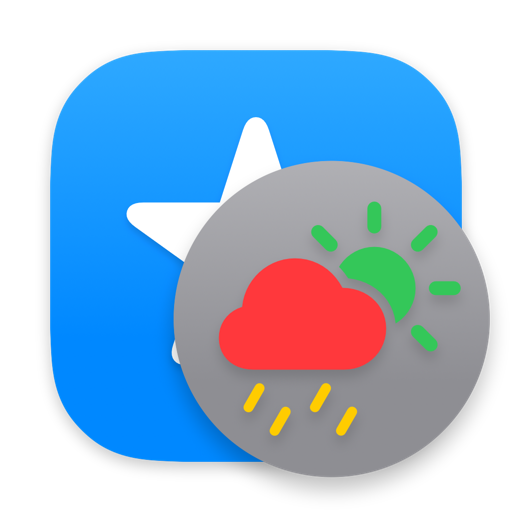
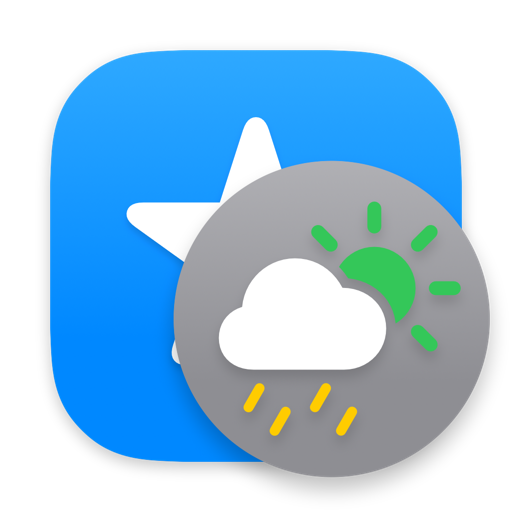
feat: default symbol palette is white, green, yellow
Follows 5843e5e, which made it red/green/yellow. Same reasoning, softer primary:
a white dominant layer keeps palette looking like the other rendering modes,
and the distinctness that separates it from hierarchical comes from the
secondary and tertiary.

It does cost margin, because the primary layer is usually the largest one.
Measured on a three-layer symbol against hierarchical: 254 and 4.99% of pixels,
where an all-hues palette gave 14.25%. Still two orders of magnitude clear of
the old white-tints default's 4 and 0.000%, and clear of the wiki generator's
16 / 0.25% visibility floor -- which is the check that would fail if this went
too far, and it passes.

Also fixes a stale comment 5843e5e should have caught: the test explaining
itself by "the CLI's palette default is genuinely different from
ForegroundSpec's" was describing the divergence that commit deleted.

Verified in the app: Icon > Foreground > Appearance with Palette selected reads
Primary White, Secondary Green, Tertiary Yellow with matching swatches.
MicaTests 778/775/3 and mica-cli 288/288/0, both at baseline;
cli-smoke-test.sh 84/8/20/9/39/9.

Changed region(s): [[0.4062, 0.5, 0.7812, 0.75]]

diff --git a/Mica/Models/IconSettings.swift b/Mica/Models/IconSettings.swift
@@ -278,7 +278,7 @@ struct ForegroundSpec: Equatable {
     static let symbolScaleRange: ClosedRange<Double> = 0.3...2.0
     static let imageScaleRange: ClosedRange<Double> = 0.3...2.0
 
-    /// The palette's three slots, primary first — and **three distinct hues on
+    /// The palette's three slots, primary first — and **three distinct colours on
     /// purpose**, because the default is the only thing that tells a reader what
     /// palette rendering *is*.
     ///
@@ -290,9 +290,16 @@ struct ForegroundSpec: Equatable {
     /// of 4 and 0.000% of pixels changed on a three-layer symbol. Choosing palette
     /// and seeing no change is the whole of what a reader learned from it.
     ///
-    /// Keep them distinct hues, then, rather than tints of one. The point of the
+    /// Keep the three distinct, then, rather than tints of one. The point of the
     /// mode is that each layer takes its own colour, and the default has to show it.
-    static let defaultPalette: [MicaColorValue] = [.red, .green, .yellow]
+    /// A white *primary* is fine and is deliberate — it keeps the dominant layer
+    /// looking like the other rendering modes, and the distinctness that matters
+    /// comes from the secondary and tertiary. It does cost some of the margin,
+    /// because the primary layer is usually the largest: measured on a three-layer
+    /// symbol, 254 and 4.99% of pixels against hierarchical where an all-hues
+    /// palette gave 14.25%. Still an order of magnitude clear of the old 4 and
+    /// 0.000%, and clear of the wiki generator's 16 / 0.25% visibility floor.
+    static let defaultPalette: [MicaColorValue] = [.white, .green, .yellow]
 
     /// `defaultPalette` as the `--icon-symbol-palette` / `--badge-symbol-palette`
     /// value that reproduces it, for help text. Derived, so a help string can

diff --git a/mica-cli Tests/BaseOverrideTests.swift b/mica-cli Tests/BaseOverrideTests.swift
@@ -98,9 +98,11 @@ struct BaseOverrideTests {
 
     @Test("An absent --icon-symbol-palette keeps the base's palette")
     func absentPalette_keepsTheBasePalette() throws {
-        // The sharpest case: the CLI's palette default (three tints of white) is
-        // genuinely different from ForegroundSpec's white/mint/yellow, so this site
-        // could not be fixed by matching a literal to a spec default.
+        // This was the sharpest case while the CLI seeded a palette of its own that
+        // differed from the model's, because the site could not be fixed by matching
+        // a literal to a spec default. That seed is gone (there is one default now),
+        // so what this defends is the ordinary contract: the base's palette differs
+        // from `ForegroundSpec.defaultPalette`, so an eager write would show here.
         let result = try Self.build([], onto: Self.distinctiveBase())
         #expect(result.icon.foreground.palettePrimaryColor == .red)
         #expect(result.icon.foreground.paletteSecondaryColor == .green)
@@ -339,6 +341,6 @@ struct BaseOverrideTests {
         let palette = ForegroundSpec.defaultPalette
         #expect(palette.count == 3)
         #expect(Set(palette.map(\.stringValue)).count == 3, "the default palette must not be three tints of one colour")
-        #expect(ForegroundSpec.defaultPaletteCLIValue == "red,green,yellow")
+        #expect(ForegroundSpec.defaultPaletteCLIValue == "white,green,yellow")
     }
 }

diff --git a/wiki/CLI-Reference.md b/wiki/CLI-Reference.md
@@ -43,7 +43,7 @@ Neither shorthand is a configuration key. In a `.json` file, write `"icon-fg": "
 | `--icon-fg-scale` | 0.3–2.0 | 1.0 | Foreground scale multiplier (drives whichever source is active). |
 | `--icon-symbol-rendering` | `monochrome`, `hierarchical`, `multicolor`, `palette` | `monochrome` | SF Symbol rendering mode. |
 | `--icon-symbol-color` | any [colour](Colour-Formats) | `white` | Symbol colour (monochrome, hierarchical, and multicolor modes). In system mode: an appex colour. |
-| `--icon-symbol-palette` | `c1,c2,c3` | `red,green,yellow` | Palette-mode colours; every slot accepts an `:opacity` suffix. |
+| `--icon-symbol-palette` | `c1,c2,c3` | `white,green,yellow` | Palette-mode colours; every slot accepts an `:opacity` suffix. |
 | `--icon-symbol-weight` | `auto`, `ultralight`, `thin`, `light`, `regular`, `medium`, `semibold`, `bold`, `heavy`, `black` | `auto` | Symbol weight. `auto` uses Mica's per-symbol calibration. |
 | `--icon-symbol-gradient` | `on`, `off` | `off` | Gradient fill on the symbol colour (requires macOS 26+). |
 | `--icon-fg-shadow` | `on`, `off` | `on` for SF Symbols, `off` for images | Drop shadow behind the foreground. |
@@ -81,7 +81,7 @@ its own.
 | `--badge-fg-scale` | 0.3–2.0 | 1.0 | Badge foreground scale multiplier. |
 | `--badge-symbol-rendering` | `monochrome`, `hierarchical`, `multicolor`, `palette` | `monochrome` | Badge symbol rendering mode. |
 | `--badge-symbol-color` | any [colour](Colour-Formats) | `white` | Badge symbol colour. |
-| `--badge-symbol-palette` | `c1,c2,c3` | `red,green,yellow` | Badge palette-mode colours. |
+| `--badge-symbol-palette` | `c1,c2,c3` | `white,green,yellow` | Badge palette-mode colours. |
 | `--badge-symbol-weight` | as icon weights | `auto` | Badge symbol weight. |
 | `--badge-symbol-gradient` | `on`, `off` | `off` | Gradient fill on the badge symbol colour (macOS 26+). |
 | `--badge-fg-shadow` | `on`, `off` | `on` for SF Symbols, `off` for images | Badge foreground drop shadow. |
